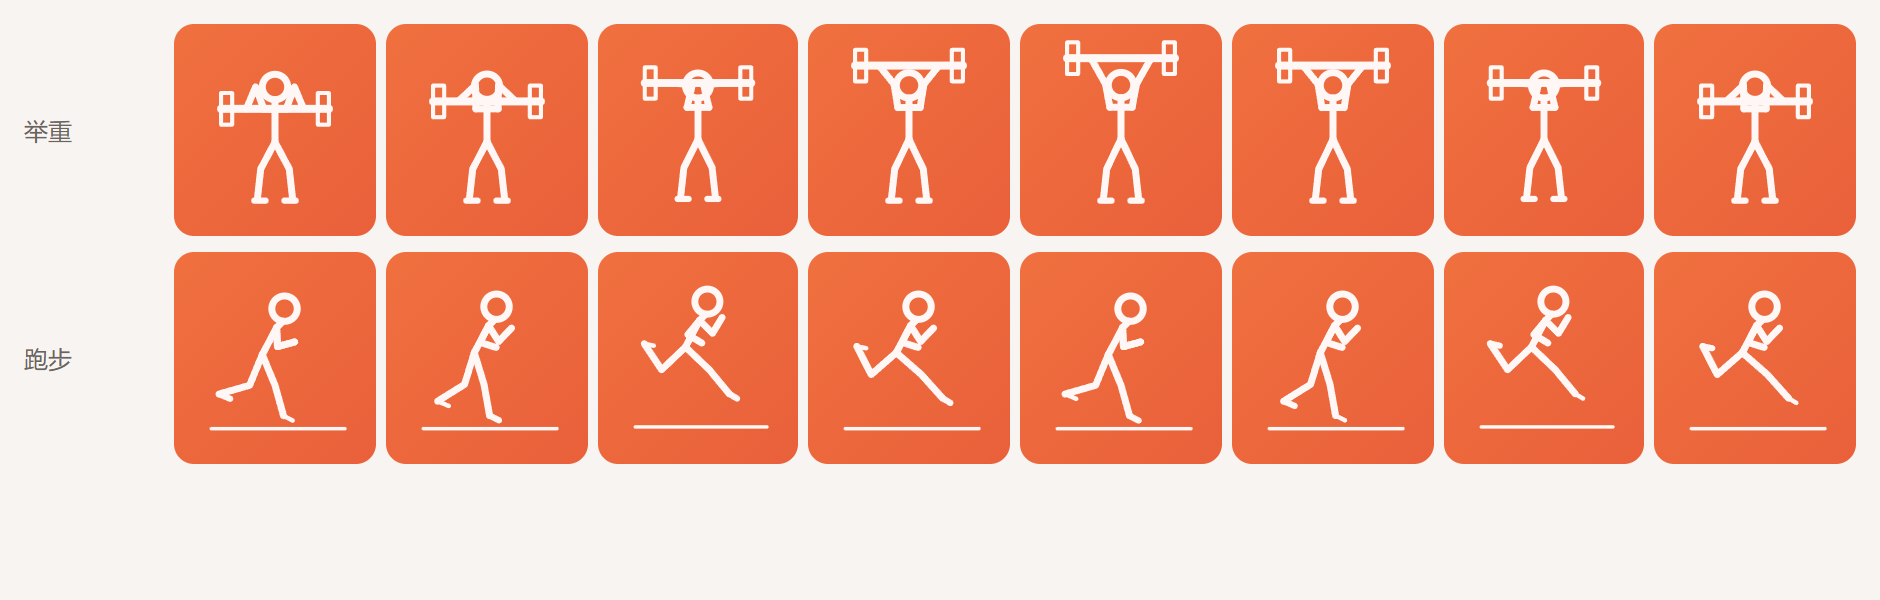
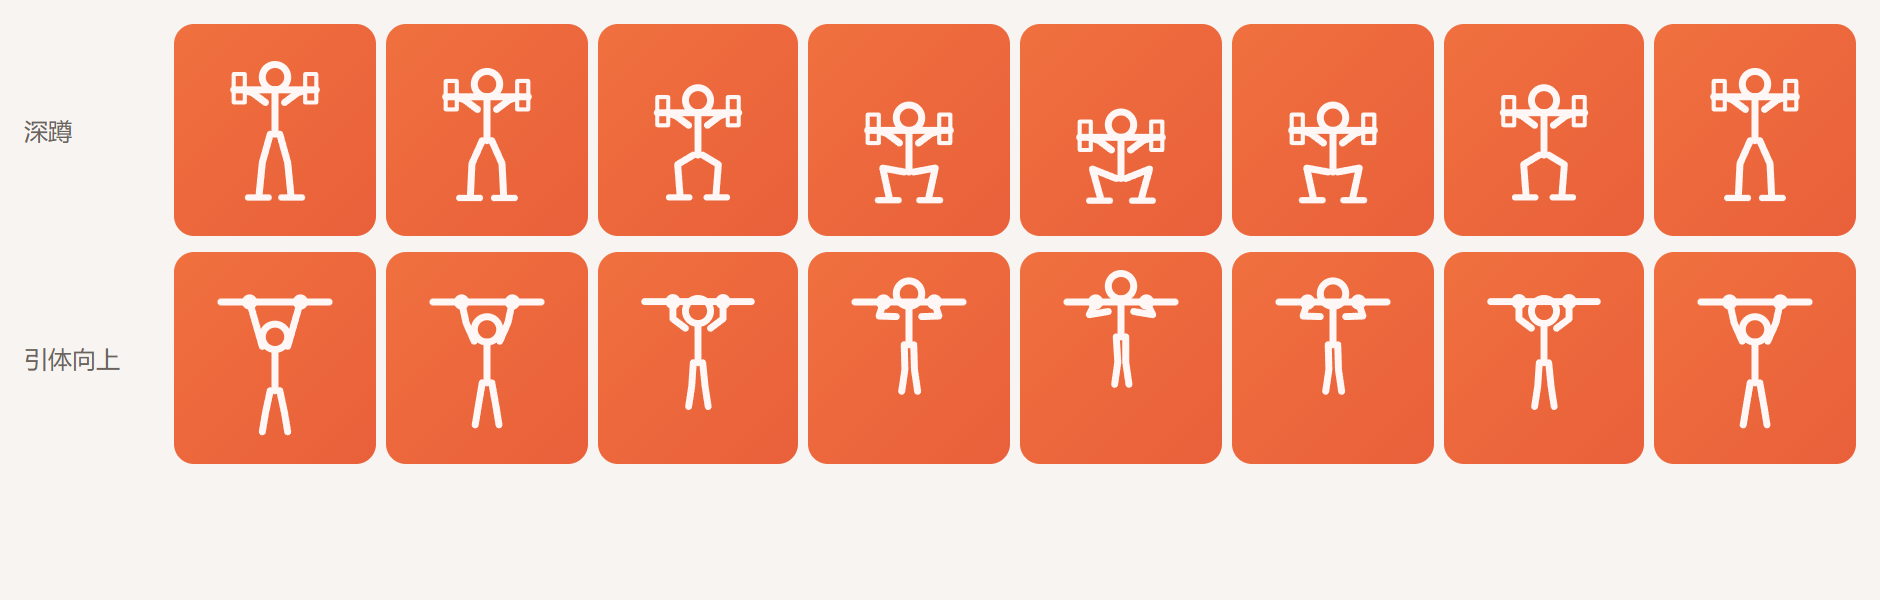
fix: 深蹲蹲得更深；引体向上上拉到头部过杠
深蹲（杠铃背蹲，正面视角）
- 原来的最低点只到半蹲：髋部 y=70、膝盖 y=77，臀部还在膝盖上方
- 现在最低点：髋部 y=90、膝盖 y=84、脚踝 y=102
  · 臀部低于膝盖 6px，接近小腿中段（膝盖到脚踝的中点约 y=93）
  · 站直帧仍是髋部 y=62，形成完整的「站直 → 深蹲 → 站直」行程
- 膝盖外张（42 / 78），脚踝向内收（47 / 73），符合蹲到底时膝盖外展的姿态
- 脚掌改成跟着插值后的脚踝走，不再写死 y=100
- 杠铃始终在肩上（站直 y=34、深蹲 y=64），横杆左右配重块不变

引体向上（正面视角）
- 单杠从 y=13 下移到 y=24，给头部留出空间
- 悬挂帧：头 y=46（在杠下方）→ 上拉帧：头 y=14，头顶到 y=6
  · 头顶离横杆有 2px 余量，明确「头过杠」
- 上拉到顶点时两腿自然下垂（原来两条腿交叉成菱形，已修正）
- 握点固定在杠上（44 / 76），手臂在顶点弯成外张的肘

验证
- 8 相位密集帧（docs/ui/hero-frames.png）：
  · 深蹲第 4–6 相位明显蹲到底、臀部低于膝盖
  · 引体向上第 3–6 相位头部完整高于横杆
- 真实尺寸 39px 下六个动作全部清楚（docs/ui/hero-small.png）
- 开发者工具：动画持续渲染、点击换动作正常、无 JS 报错
- 上传 1.5.12（231.5 KB）

diff --git a/miniprogram/utils/hero-anim.js b/miniprogram/utils/hero-anim.js
@@ -81,16 +81,20 @@ const POSES = [
   {
     key: 'squat',
     name: '深蹲',
-    // 杠铃背在肩上，站起来 → 蹲下去
+    // 杠铃背蹲：从站直蹲到很深（臀部低于膝盖、接近小腿中段）
     frames: [
-      { head: [60, 24], torso: [[60, 32], [60, 60]],
-        arms: [[[54, 40], [46, 33], [40, 33]], [[66, 40], [74, 33], [80, 33]]],
-        legs: [[[57, 60], [52, 79], [49, 99]], [[63, 60], [68, 79], [71, 99]]],
-        hands: [[40, 33], [80, 33]], barY: 33 },
-      { head: [60, 30], torso: [[60, 38], [60, 70]],
-        arms: [[[54, 46], [46, 39], [40, 39]], [[66, 46], [74, 39], [80, 39]]],
-        legs: [[[57, 70], [40, 77], [43, 100]], [[63, 70], [80, 77], [77, 100]]],
-        hands: [[40, 39], [80, 39]], barY: 39 }
+      {
+        head: [60, 26], torso: [[60, 34], [60, 62]],
+        arms: [[[54, 42], [46, 36], [40, 34]], [[66, 42], [74, 36], [80, 34]]],
+        legs: [[[57, 62], [52, 80], [50, 100]], [[63, 62], [68, 80], [70, 100]]],
+        hands: [[40, 34], [80, 34]], barY: 34
+      },
+      {
+        head: [60, 56], torso: [[60, 64], [60, 90]],
+        arms: [[[54, 72], [46, 66], [40, 64]], [[66, 72], [74, 66], [80, 64]]],
+        legs: [[[57, 90], [42, 84], [47, 102]], [[63, 90], [78, 84], [73, 102]]],
+        hands: [[40, 64], [80, 64]], barY: 64
+      }
     ]
   },
   {
@@ -196,18 +200,23 @@ const POSES = [
   {
     key: 'pullup',
     name: '引体向上',
-    // 挂在杠上 → 拉起
+    // 单杠挂在画面上方；上拉到头部超过横杆（下巴/头过杠）
     frames: [
-      { head: [60, 40], torso: [[60, 48], [60, 72]],
-        arms: [[[55, 49], [50, 32], [45, 14]], [[65, 49], [70, 32], [75, 14]]],
-        legs: [[[57, 72], [55, 87], [53, 101]], [[63, 72], [65, 87], [67, 101]]],
-        hands: [[45, 14], [75, 14]] },
-      { head: [60, 29], torso: [[60, 37], [60, 61]],
-        arms: [[[55, 38], [48, 25], [45, 14]], [[65, 38], [72, 25], [75, 14]]],
-        legs: [[[57, 61], [55, 76], [53, 90]], [[63, 61], [65, 76], [67, 90]]],
-        hands: [[45, 14], [75, 14]] }
+      {
+        head: [60, 46], torso: [[60, 54], [60, 80]],
+        arms: [[[52, 52], [48, 38], [44, 24]], [[68, 52], [72, 38], [76, 24]]],
+        legs: [[[57, 80], [54, 94], [52, 106]], [[63, 80], [66, 94], [68, 106]]],
+        hands: [[44, 24], [76, 24]]
+      },
+      {
+        head: [60, 14], torso: [[60, 22], [60, 46]],
+        arms: [[[52, 30], [40, 32], [44, 24]], [[68, 30], [80, 32], [76, 24]]],
+        legs: [[[57, 46], [58, 62], [56, 76]], [[63, 46], [63, 62], [65, 76]]],
+        hands: [[44, 24], [76, 24]]
+      }
     ]
   }
+
 ]
 
 const BY_KEY = POSES.reduce((acc, p) => { acc[p.key] = p; return acc }, {})
@@ -268,17 +277,19 @@ function paint(be, poseKey, gender, phase) {
     gear(34, y, 86, y)
     be.rect(34, y - 10, 7, 18)
     be.rect(79, y - 10, 7, 18)
-    be.line(42, 100, 33, 104, 1)
-    be.line(78, 100, 87, 104, 1)
+    const a1 = g.legs[0][2]
+    const a2 = g.legs[1][2]
+    be.line(a1[0] - 7, a1[1] + 2, a1[0] + 6, a1[1] + 2, 0.9)
+    be.line(a2[0] - 6, a2[1] + 2, a2[0] + 7, a2[1] + 2, 0.9)
   } else if (pose.key === 'dip') {
     gear(14, 44, 42, 44)
     gear(78, 44, 106, 44)
     be.line(14, 44, 14, 92, 1)
     be.line(106, 44, 106, 92, 1)
   } else if (pose.key === 'pullup') {
-    gear(26, 13, 94, 13)
-    be.circle(45, 13, 2.6)
-    be.circle(75, 13, 2.6)
+    gear(26, 24, 94, 24)
+    be.circle(44, 24, 2.6)
+    be.circle(76, 24, 2.6)
   }
 
   // 身体

diff --git a/scripts/hero-redo-6.js b/scripts/hero-redo-6.js
@@ -1,0 +1,97 @@
+// 深蹲蹲得更低（臀低于膝、接近小腿中段）；引体向上头过横杆
+const fs = require('fs')
+
+const P = 'C:/Users/yuuolo/Documents/deepseek/fitness-miniapp/miniprogram/utils/hero-anim.js'
+let raw = fs.readFileSync(P, 'utf8')
+const CRLF = raw.includes('\r\n')
+let t = raw.replace(/\r\n/g, '\n')
+const done = []
+
+// ---------- 深蹲 ----------
+const startSquat = t.indexOf("  {\n    key: 'squat'")
+const endSquat = t.indexOf("  {\n    key: 'curl'")
+
+const newSquat = `  {
+    key: 'squat',
+    name: '深蹲',
+    // 杠铃背蹲：从站直蹲到很深（臀部低于膝盖、接近小腿中段）
+    frames: [
+      {
+        head: [60, 26], torso: [[60, 34], [60, 62]],
+        arms: [[[54, 42], [46, 36], [40, 34]], [[66, 42], [74, 36], [80, 34]]],
+        legs: [[[57, 62], [52, 80], [50, 100]], [[63, 62], [68, 80], [70, 100]]],
+        hands: [[40, 34], [80, 34]], barY: 34
+      },
+      {
+        head: [60, 56], torso: [[60, 64], [60, 90]],
+        arms: [[[54, 72], [46, 66], [40, 64]], [[66, 72], [74, 66], [80, 64]]],
+        legs: [[[57, 90], [42, 84], [47, 102]], [[63, 90], [78, 84], [73, 102]]],
+        hands: [[40, 64], [80, 64]], barY: 64
+      }
+    ]
+  },
+`
+t = t.slice(0, startSquat) + newSquat + t.slice(endSquat)
+done.push('深蹲：蹲到臀部低于膝盖')
+
+// ---------- 引体向上 ----------
+const startPull = t.indexOf("  {\n    key: 'pullup'")
+// pullup 是最后一个，结束位置是 POSES 数组结尾
+const endPull = t.indexOf('\n]\n\nconst BY_KEY')
+
+const newPull = `  {
+    key: 'pullup',
+    name: '引体向上',
+    // 单杠挂在画面上方；上拉到头部超过横杆（下巴/头过杠）
+    frames: [
+      {
+        head: [60, 46], torso: [[60, 54], [60, 80]],
+        arms: [[[52, 52], [48, 38], [44, 24]], [[68, 52], [72, 38], [76, 24]]],
+        legs: [[[57, 80], [54, 94], [52, 106]], [[63, 80], [66, 94], [68, 106]]],
+        hands: [[44, 24], [76, 24]]
+      },
+      {
+        head: [60, 14], torso: [[60, 22], [60, 46]],
+        arms: [[[52, 30], [40, 32], [44, 24]], [[68, 30], [80, 32], [76, 24]]],
+        legs: [[[57, 46], [54, 60], [62, 66]], [[63, 46], [66, 60], [58, 66]]],
+        hands: [[44, 24], [76, 24]]
+      }
+    ]
+  }
+`
+if (endPull < 0) {
+  console.log('⚠ 找不到 POSES 结尾')
+} else {
+  t = t.slice(0, startPull) + newPull + t.slice(endPull)
+  done.push('引体向上：上拉到头部过杠')
+}
+
+// ---------- 器械：横杆位置、脚掌位置跟着改 ----------
+// 引体向上的单杠从 y=13 下移到 y=24，握点对齐 44 / 76
+t = t.replace(
+  `  } else if (pose.key === 'pullup') {
+    gear(26, 13, 94, 13)
+    be.circle(45, 13, 2.6)
+    be.circle(75, 13, 2.6)
+  }`,
+  `  } else if (pose.key === 'pullup') {
+    gear(26, 24, 94, 24)
+    be.circle(44, 24, 2.6)
+    be.circle(76, 24, 2.6)
+  }`
+)
+
+// 深蹲：脚掌跟着插值后的脚踝走（不再写死 y=100）
+t = t.replace(
+  `    be.line(42, 100, 33, 104, 1)
+    be.line(78, 100, 87, 104, 1)`,
+  `    const a1 = g.legs[0][2]
+    const a2 = g.legs[1][2]
+    be.line(a1[0] - 7, a1[1] + 2, a1[0] + 6, a1[1] + 2, 0.9)
+    be.line(a2[0] - 6, a2[1] + 2, a2[0] + 7, a2[1] + 2, 0.9)`
+)
+
+fs.writeFileSync(P, CRLF ? t.replace(/\n/g, '\r\n') : t)
+console.log(done.map(x => '  ✓ ' + x).join('\n'))
+require('child_process').execFileSync(process.execPath, ['--check', P])
+console.log('  ✓ 语法通过')

diff --git a/scripts/browser/render-hero-small.js b/scripts/browser/render-hero-small.js
@@ -28,7 +28,7 @@ const html = `<!DOCTYPE html><html><head><meta charset="utf-8"><style>
     background: linear-gradient(135deg, #f0703f, #e9603a); overflow: hidden; }
   .fig { position: absolute; right: 4px; top: 50%; width: 39px; height: 39px; margin-top: -19.5px;
     background-repeat: no-repeat; background-position: center; background-size: contain; }
-</style></head><body>${['lift', 'run'].map(row).join('')}</body></html>`
+</style></head><body>${['lift', 'squat', 'curl', 'dip', 'run', 'pullup'].map(row).join('')}</body></html>`
 
 const out = 'C:/Users/yuuolo/Documents/deepseek/.dsh-tools/ui-preview'
 fs.writeFileSync(out + '/hero-small.html', html)
